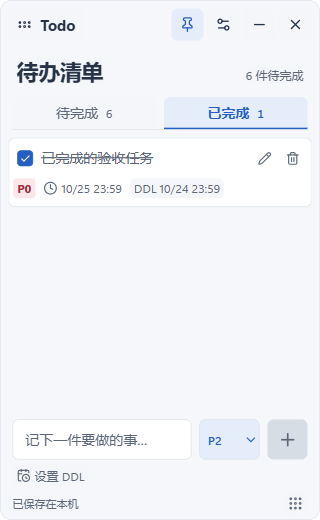
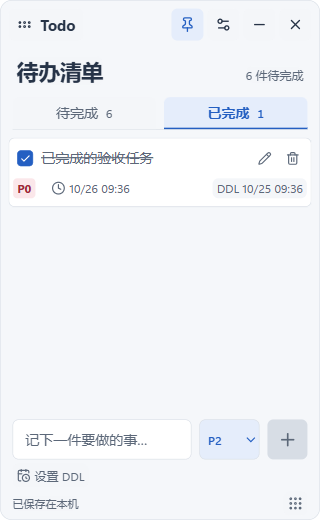
fix: widen task metadata gaps and right-align deadlines

Changed region(s): [[0.125, 0.3385, 0.9375, 0.4]]

diff --git a/src/styles.css b/src/styles.css
@@ -75,7 +75,7 @@ h1 { font-size: 22px; line-height: 1.3; font-weight: 650; margin: 0; letter-spac
 .completed .todo-text { color: var(--color-muted); text-decoration: line-through; }
 .todo-content { flex: 1; min-width: 0; padding: var(--space-1) 0 0; }
 .todo-content .todo-text { padding-bottom: 0; }
-.todo-meta { display: flex; flex: 0 0 100%; min-width: 0; align-items: center; flex-wrap: nowrap; gap: var(--space-2); padding-bottom: var(--space-1); font-size: var(--task-meta-font-size); line-height: var(--task-meta-line-height); white-space: nowrap; }
+.todo-meta { display: flex; flex: 0 0 100%; min-width: 0; align-items: center; flex-wrap: nowrap; gap: var(--space-4); padding-bottom: var(--space-1); font-size: var(--task-meta-font-size); line-height: var(--task-meta-line-height); white-space: nowrap; }
 .todo-created { display: inline-flex; flex-shrink: 0; align-items: center; gap: var(--space-1); color: var(--color-muted); }
 .priority-badge { display: inline-block; flex-shrink: 0; padding: 0 var(--space-1); border-radius: var(--space-1); font-weight: 650; }
 .priority-select { width: 60px; flex-shrink: 0; min-height: 32px; padding: 0 var(--space-1); border: 1px solid var(--color-border); border-radius: var(--radius-small); font-size: 12px; font-weight: 600; cursor: pointer; }
@@ -123,7 +123,7 @@ input::placeholder { color: var(--color-muted); }
 .deadline-shortcuts button { min-height: 28px; padding: var(--space-1) var(--space-2); border-radius: var(--radius-small); font-size: 12px; background: var(--color-surface); }
 .deadline-shortcuts button:hover:not(:disabled) { color: var(--color-accent); background: var(--color-accent-soft); }
 .deadline-editor .hint { font-size: 11px; margin-bottom: 0; }
-.deadline-badge { display: inline-flex; flex-shrink: 0; min-height: var(--task-meta-line-height); padding: 0 var(--space-1); border-radius: var(--radius-small); text-align: left; white-space: nowrap; }
+.deadline-badge { display: inline-flex; flex-shrink: 0; min-height: var(--task-meta-line-height); margin-inline-start: auto; padding: 0 var(--space-1); border-radius: var(--radius-small); text-align: left; white-space: nowrap; }
 .deadline-neutral { color: var(--color-muted); background: var(--color-surface); }
 .deadline-soon { color: var(--color-warning); background: var(--color-warning-soft); }
 .deadline-urgent, .deadline-overdue { color: var(--color-danger); background: var(--color-danger-soft); }

diff --git a/DESIGN.md b/DESIGN.md
@@ -11,7 +11,7 @@
 - 标题下方为“待完成 / 已完成”两个紧凑页签，始终显示各自数量。启动默认待完成，勾选后自动归类但不切换视图。页签支持方向键、Home / End；任务移出当前视图后，焦点移至下一项或当前页签。
 - 已完成任务保留优先级与添加时间，取消勾选可恢复；不显示排序柄。永久删除采用行内两步确认，默认焦点在取消，支持 Esc 返回，不叠加模态窗口。
 - 新任务记录添加时间，以时钟图标加“月/日 时:分”展示，悬停与无障碍名称保留含年份的完整本地时间；旧任务显示“添加时间未知”，不推测历史时间。
-- 任务正文下方使用完整卡片宽度的单行信息栏，优先级、添加时间、DDL 依次横向排列；字号 12px、行高 20px、字段间距 8px，时钟图标 14px。正文底部不叠加留白，保留卡片行间距 4px，使信息栏靠近任务描述。在最小 280 DIP 窗口下也不换行或省略日期。DDL 为可选字段，未设置时显示“设置 DDL”，已设置时显示“DDL 月/日 时:分”；完整剩余时间放入悬停提示和无障碍描述。24 小时内为琥珀色、1 小时内及逾期为红色，逾期时前缀明确改为“逾期”。已完成任务保留截止时间，停止紧迫提示，不改变优先级和手动排序。
+- 任务正文下方使用完整卡片宽度的单行信息栏，优先级、添加时间、DDL 依次横向排列；字号 12px、行高 20px、字段最小间距 16px，时钟图标 14px。DDL 靠信息栏最右侧对齐，吸收添加时间之后的剩余空间。正文底部不叠加留白，保留卡片行间距 4px，使信息栏靠近任务描述。在最小 280 DIP 窗口下也不换行或省略日期。DDL 为可选字段，未设置时显示“设置 DDL”，已设置时显示“DDL 月/日 时:分”；完整剩余时间放入悬停提示和无障碍描述。24 小时内为琥珀色、1 小时内及逾期为红色，逾期时前缀明确改为“逾期”。已完成任务保留截止时间，停止紧迫提示，不改变优先级和手动排序。
 - 新增区的日历按钮展开日期 / 时间字段，已有任务可点击 DDL 直接进入编辑。原生日期、时间控件精确到分钟，只选日期默认 23:59，提供今天、明天、清除按钮。展开区可滚动，最小窗口尺寸下主要控件仍可操作。
 - 桌面提醒为设置中的独立开关，默认关闭。由 Rust 侧触发，运行或最小化时检查，退出后停止；界面倒计时按系统时间重新计算，不用递减计数。
 - 不使用背景模糊、渐变、辉光、装饰卡片；动画仅用于按钮状态，尊重 reduced motion。

diff --git a/README.md b/README.md
@@ -47,7 +47,7 @@
 | 完成 | 勾选任务后，自动从“待完成”移入“已完成”；当前页保持不变。 |
 | 查看 / 恢复已完成任务 | 点击“已完成”页签；取消任务勾选可恢复到“待完成”，保留文字、优先级和原添加时间。 |
 | 永久删除已完成任务 | 在“已完成”中点击垃圾桶，再点击“永久删除”。取消或按 Esc 会保留任务。 |
-| 查看任务信息 | 正文下方同一行显示优先级 P0–P3、时钟图标与添加时间、DDL；信息栏贴近正文，使用 12px 字号和 8px 字段间距。日期均按 Windows 本地时间显示到分钟，悬停查看完整说明和截止倒计时。 |
+| 查看任务信息 | 正文下方同一行显示优先级 P0–P3、时钟图标与添加时间、DDL；信息栏贴近正文，使用 12px 字号和至少 16px 字段间距，DDL 靠最右侧对齐。日期均按 Windows 本地时间显示到分钟，悬停查看完整说明和截止倒计时。 |
 | 设置 DDL | 新增区点击日历按钮，或点击任务上的“设置 DDL”；选择本地日期和时间。只选日期默认 23:59。 |
 | 修改 / 清除 DDL | 点击卡片上的 DDL 或铅笔，保存修改；“清除 DDL”后保存即可取消截止时间。 |
 | 开启桌面提醒 | 在设置中开启“桌面通知提醒”，DDL 前 1 小时和截止时各提醒一次。默认关闭。 |

diff --git a/RELEASE_NOTES.md b/RELEASE_NOTES.md
@@ -1,6 +1,6 @@
-# Todo Widget v0.4.3
+# Todo Widget v0.4.4
 
-调整任务信息栏的阅读体验：去掉正文下方叠加的 8px 留白，让信息栏靠近任务描述；字号由 11px 增至 12px，行高增至 20px，字段间距由 4px 增至 8px，时钟图标同步放大。优先级、添加时间和 DDL 继续保持单行，日期完整显示；悬停详情、DDL 编辑及临近 / 逾期提示保留。
+任务信息栏的字段最小间距由 8px 增至 16px，DDL 固定靠信息栏最右侧对齐。优先级、添加时间和 DDL 继续保持单行；12px 字号、贴近正文的留白、完整日期、悬停详情、DDL 编辑及临近 / 逾期提示保留。
 
 ## v0.4.0 的 DDL 功能
 
